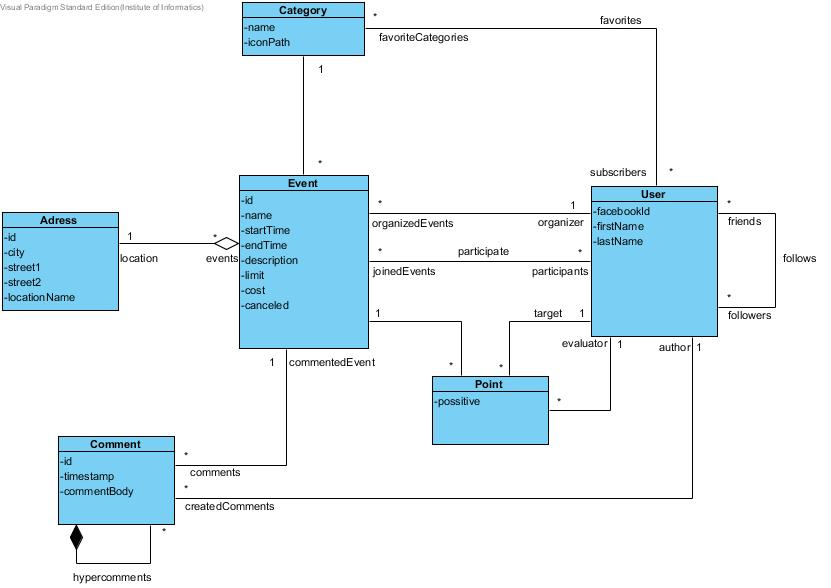
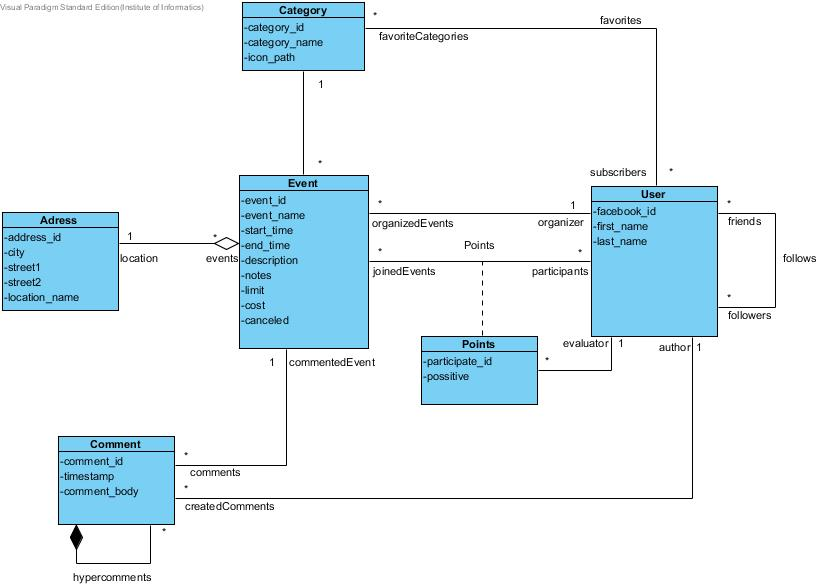
MK schemat BD + wywaliłem całkiem interfejs repository bo to słaby pomysł był

diff --git a/app/src/main/java/com/zpi/team/joinin/entities/User.java b/app/src/main/java/com/zpi/team/joinin/entities/User.java
@@ -8,8 +8,8 @@ import java.util.List;
 public class User {
 
     private String facebookId;
-    private String imie;
-    private String nazwisko;
+    private String firstName;
+    private String lastName;
 
     private List<Category> favoriteCategories;
     private List<Event> organizedEvents;
@@ -18,10 +18,10 @@ public class User {
     private List<User> friends;
     private List<User> followers;
 
-    public User(String facebookId, String imie, String nazwisko) {
+    public User(String facebookId, String firstName, String lastName) {
         this.facebookId = facebookId;
-        this.imie = imie;
-        this.nazwisko = nazwisko;
+        this.firstName = firstName;
+        this.lastName = lastName;
     }
 
     public String getFacebookId() {
@@ -32,20 +32,20 @@ public class User {
         this.facebookId = facebookId;
     }
 
-    public String getImie() {
-        return imie;
+    public String getFirstName() {
+        return firstName;
     }
 
-    public void setImie(String imie) {
-        this.imie = imie;
+    public void setFirstName(String firstName) {
+        this.firstName = firstName;
     }
 
-    public String getNazwisko() {
-        return nazwisko;
+    public String getLastName() {
+        return lastName;
     }
 
-    public void setNazwisko(String nazwisko) {
-        this.nazwisko = nazwisko;
+    public void setLastName(String lastName) {
+        this.lastName = lastName;
     }
 
     public List<Category> getFavoriteCategories() {

diff --git a/app/src/main/java/com/zpi/team/joinin/repository/EventRepository.java b/app/src/main/java/com/zpi/team/joinin/repository/EventRepository.java
@@ -8,6 +8,7 @@ import com.zpi.team.joinin.entities.Event;
 import com.zpi.team.joinin.entities.User;
 
 import org.apache.http.NameValuePair;
+import org.apache.http.message.BasicNameValuePair;
 import org.json.JSONArray;
 import org.json.JSONException;
 import org.json.JSONObject;
@@ -67,13 +68,19 @@ public class EventRepository implements IRepository<Event> {
         return event;
     }
 
-    @Override
     public List<Event> getAll() {
+        return getAll(false);
+    }
+
+    public List<Event> getAll(boolean canceled) {
+
         List<NameValuePair> params = new ArrayList<NameValuePair>();
+        params.add(new BasicNameValuePair("canceled", canceled?"Y":"N"));
         DateFormat dateFormat = new SimpleDateFormat("yyyy-MM-dd HH:mm:ss");
         JSONObject json = jParser.makeHttpRequest(url_all_events, "GET", params);
 
         List<Event> result = new ArrayList<Event>();
+
         try {
             int success = json.getInt(TAG_SUCCESS);
             if (success == 1) {
@@ -105,17 +112,14 @@ public class EventRepository implements IRepository<Event> {
         return result;
     }
 
-    @Override
     public void create(Event entity) {
         // TODO
     }
 
-    @Override
     public void delete(Event entity) {
         // TODO
     }
 
-    @Override
     public void update(Event entity) {
         // TODO
     }

diff --git a/app/src/main/java/com/zpi/team/joinin/repository/UserRepository.java b/app/src/main/java/com/zpi/team/joinin/repository/UserRepository.java
@@ -9,7 +9,7 @@ import java.util.List;
 /**
  * Created by MK on 2015-03-19.
  */
-public class UserRepository implements IRepository {
+public class UserRepository implements IRepository<User> {
 
     public User getById(String userID) {
         User user = new User("1", "FName", "LName");
@@ -17,24 +17,5 @@ public class UserRepository implements IRepository {
         user.setFriends(Arrays.asList(new User[]{new User("2", "FName2", "LName2")}));
         return user;
     }
-    
-    @Override
-    public List<User> getAll() {
-        return null;
-    }
 
-    @Override
-    public void create(Object entity) {
-
-    }
-
-    @Override
-    public void delete(Object entity) {
-
-    }
-
-    @Override
-    public void update(Object entity) {
-
-    }
 }

diff --git a/db/get_all_events.php b/db/get_all_events.php
@@ -4,7 +4,14 @@ require_once(dirname(__FILE__).'/db_connect.php');
 $db = new DB_CONNECT();
 mysql_query("SET NAMES 'utf8'") or die(mysql_error());
 
-$result = mysql_query("SELECT * FROM Event E LEFT JOIN Category C ON E.category = C.category_name WHERE E.canceled != 'Y'") or die(mysql_error());
+$query = "SELECT * FROM Event E LEFT JOIN Category C ON E.category = C.category_name WHERE E.canceled = 'N'";
+if (isset($_GET['canceled'])) {
+	if ($_GET['canceled'] === 'Y') {
+		$query = "SELECT * FROM Event E LEFT JOIN Category C ON E.category = C.category_name";
+	}
+}
+
+$result = mysql_query($query) or die(mysql_error());
 if (mysql_num_rows($result) > 0) {
     $response["events"] = array();
     while ($row = mysql_fetch_array($result)) {

diff --git a/app/src/main/java/com/zpi/team/joinin/repository/CategoryRepository.java b/app/src/main/java/com/zpi/team/joinin/repository/CategoryRepository.java
@@ -41,7 +41,6 @@ public class CategoryRepository implements IRepository<Category> {
         return result;
     }
 
-    @Override
     public List<Category> getAll() {
 
         // Building Parameters
@@ -79,13 +78,4 @@ public class CategoryRepository implements IRepository<Category> {
         }
         return result;
     }
-
-    @Override
-    public void create(Category entity) {}
-
-    @Override
-    public void delete(Category entity) {}
-
-    @Override
-    public void update(Category entity) {}
 }

diff --git a/app/src/main/java/com/zpi/team/joinin/repository/IRepository.java b/app/src/main/java/com/zpi/team/joinin/repository/IRepository.java
@@ -6,11 +6,5 @@ import java.util.List;
  * Created by MK on 2015-03-11.
  */
 public interface IRepository<T> {
-
     String hostname = "http://joinin.comxa.com/db/";
-
-    List<T> getAll();
-    void create(T entity);
-    void delete(T entity);
-    void update(T entity);
 }
